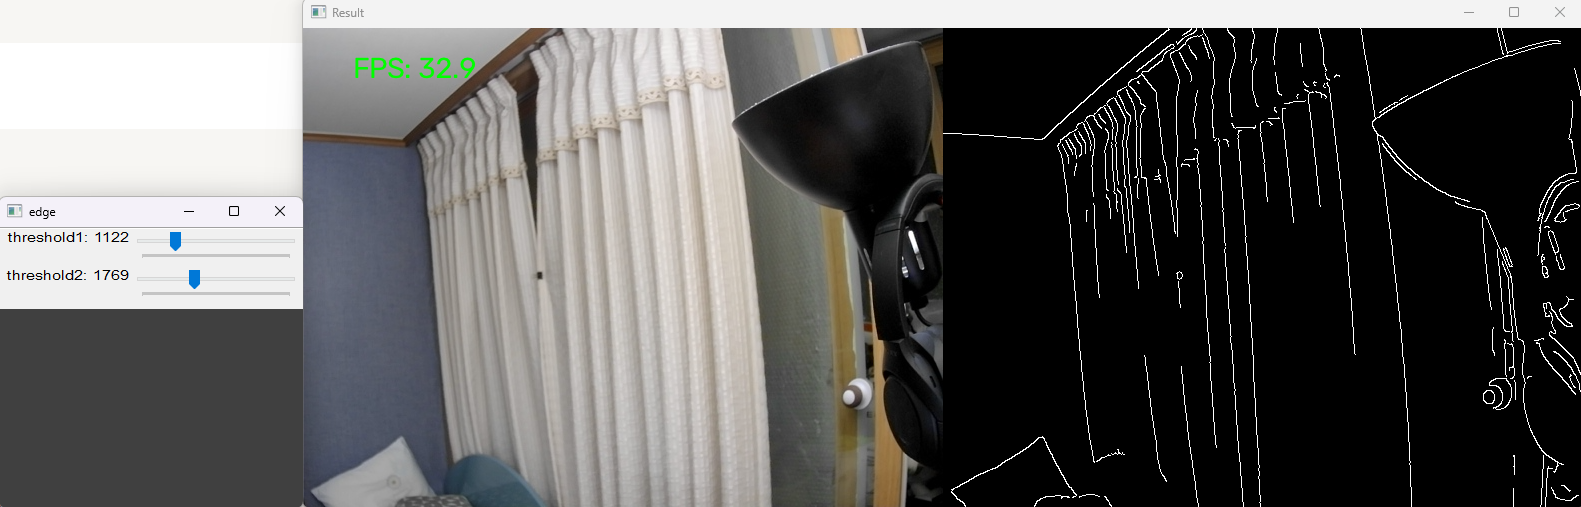
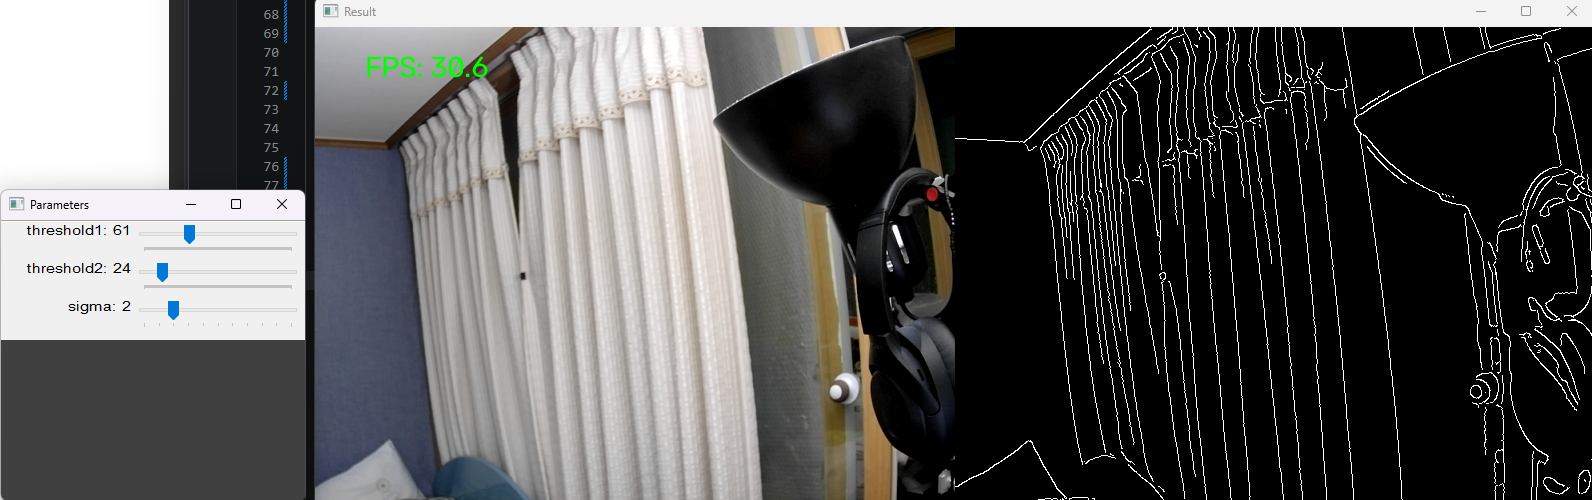
v03

diff --git a/week1/main.py b/week1/main.py
@@ -4,8 +4,21 @@ import matplotlib
 import time
 from collections import deque
 
+class FPSCounter :
+    def __init__(self,frame_len = 30) :
+        self.prev_time = time.time()
+        self.history = deque(maxlen = frame_len)
+
+    def calc_fps(self):
+        current_time=time.time()
+        d = current_time - self.prev_time
+        self.prev_time = current_time
+        fps = 1.0/max(d,1e-6)
+        self.history.append(fps)
+        return np.mean(self.history)
+
 def capture_cam () :
-    cap = cv2.VideoCapture(0)
+    cap = cv2.VideoCapture(0,cv2.CAP_DSHOW)
     
     if cap.isOpened() :
         cap.set(cv2.CAP_PROP_FRAME_WIDTH, 640)
@@ -20,65 +33,59 @@ def capture_cam () :
         cap.release()
         return None
 
-
-def grayscale(frame):
+def to_grayscale(frame):
     return cv2.cvtColor(frame, cv2.COLOR_BGR2GRAY)
 
-def g_blur(frame,sigma):
-    return cv2.GaussianBlur(frame,(0,0),sigma)
+def apply_blur(frame,sig):
+    return cv2.GaussianBlur(frame,(0,0),sig)
 
-def preprocess(frame, th1, th2, sigma=1):
-        gray = grayscale(frame.copy())
-        blur = g_blur(gray.copy(),sigma)
-        canny = cv2.Canny(blur.copy(), th1, th2, apertureSize = 5)
+def detect_edges(frame,th1,th2):
+    return cv2.Canny(frame,th1,th2)
 
-        canny_c = cv2.cvtColor(canny, cv2.COLOR_GRAY2BGR)
+def preprocess(frame,th1,th2,sig):
 
-        return np.hstack((frame,canny_c))
-        
+    gray = to_grayscale(frame.copy())
+    blur = apply_blur(gray.copy(),sig)
+    canny = detect_edges(blur,th1,th2)
 
+    return (gray,blur,canny)
 
-def show_display (cap):
+def draw_fps(frame, fps):
+    return cv2.putText(frame,f"FPS: {fps:.1f}",(50,50),cv2.FONT_HERSHEY_SIMPLEX,1,(0,255,0))
 
+def combine_frames(frame,edges):
+    return np.hstack((frame,cv2.cvtColor(edges, cv2.COLOR_GRAY2BGR)))
+
+def main ():
+    cap = capture_cam()
     if not cap :
-        print(f"show_display : Camera가 연결 되지 않았습니다.")
         return None
 
-    cv2.namedWindow('edge')
+    cv2.namedWindow('Parameters')
+    cv2.createTrackbar('threshold1','Parameters',50,200,lambda x :None)
+    cv2.createTrackbar('threshold2','Parameters',50,200,lambda x :None)
+    cv2.createTrackbar('sigma','Parameters',1,10,lambda x :None)
 
-    cv2.createTrackbar('threshold1','edge',2000,5000,lambda x :None)
-    cv2.createTrackbar('threshold2','edge',2000,5000,lambda x :None)
-
-    start_time = time.time()
-    p_t = start_time
-    fps_per_frames = deque(maxlen=30)
-
+    fps_counter = FPSCounter(frame_len = 30)
     while True:
         ret,frame = cap.read()
-        c_t = time.time()
+        
         if not ret :
             print("프레임이 존재 하지 않습니다.")
             break
-        
-        th1 = cv2.getTrackbarPos('threshold1', 'edge')
-        th2 = cv2.getTrackbarPos('threshold2', 'edge')
 
-        ## set FPS
-        f_t = c_t - p_t
-        p_t = c_t
-        fps = 1.0/f_t
-        # print('fps: ' + str(fps))
+        th1 = cv2.getTrackbarPos('threshold1','Parameters')
+        th2 = cv2.getTrackbarPos('threshold2','Parameters')
+        sig = cv2.getTrackbarPos('sigma','Parameters')
         
-        fps_per_frames.append(fps)
-        avg_fps = np.mean(fps_per_frames)
-        # print(len(fps_per_frames))
-        # print('avg fps: ' + str(avg_fps))
+        gray, blur, canny = preprocess(frame,th1,th2,max(sig,1))
+        combined_frame = combine_frames(frame,canny)
 
-        result = preprocess(frame,th1,th2)
-        cv2.putText(result,f"FPS: {avg_fps:.1f}",(50,50),cv2.FONT_HERSHEY_SIMPLEX,1,(0,255,0))
+        fps = fps_counter.calc_fps()
+        result = draw_fps(combined_frame,fps)
+
         cv2.imshow('Result',result)
-        
-        
+            
         if cv2.waitKey(1) & 0xFF == ord('q'):
             break
         
@@ -87,5 +94,4 @@ def show_display (cap):
 
 
 if __name__ == "__main__" :
-    cap = capture_cam()
-    show_display(cap)
+    main()

diff --git a/week1/tempCodeRunnerFile.py b/week1/tempCodeRunnerFile.py
@@ -1,0 +1,3 @@
+
+        # fps = fps_counter.calc_fps()
+        # result = draw_fps(combined_frame,fps)